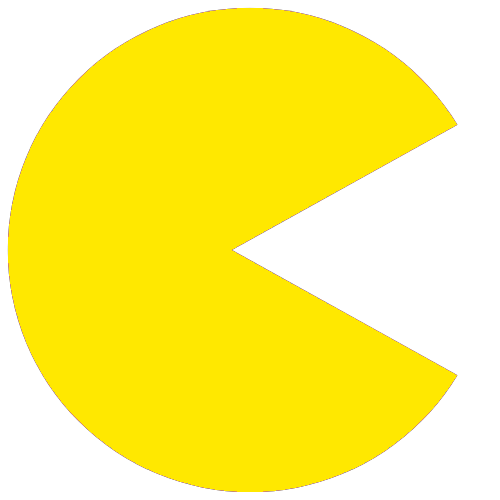
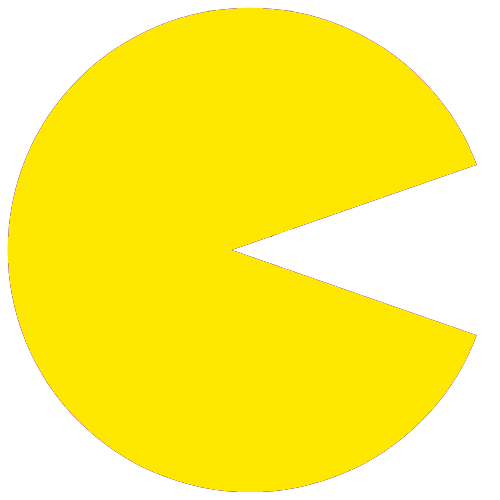
Connected Packman from Directory
Added PackMan For Multiple OS

Changed region(s): [[0.45, 0.48, 0.96, 0.75], [0.51, 0.24, 0.96, 0.48]]

diff --git a/PackMan.py b/PackMan.py
@@ -1,6 +1,6 @@
 import pygame             # importing pygame
 from board import lvl_1   # importing made board lvl_1 from board
-
+import os
 pygame.init()             # initialise all pygame modules
 
 #Game Window
@@ -16,6 +16,17 @@ level = lvl_1
 color_1 = '#0094ff' # color of walls on a map
 color_2 = 'white'   # color of small dots
 color_3 = '#fff5cc' # color of big dots
+
+
+player_images = []
+if os.path.exists("assets/player") == True:
+    for i in range(1, 4):  # adding a ll packman animation frames
+        player_images.append(pygame.transform.scale(pygame.image.load(f'assets/player/{i}.png'), (45, 45)))
+else:
+    for i in range(1, 4):  # adding a ll packman animation frames
+        player_images.append(pygame.transform.scale(pygame.image.load(f'assets\player\{i}.png'), (45, 45)))
+
+
 
 def draw_board():   # function to draw map
     height_tile = ((height - 50) // 32) # height specialy for tile ( /32 because in original pacman there are 32 different vertical tiles)
@@ -56,6 +67,11 @@ def draw_board():   # function to draw map
             # drawing gates
             if level[i][j] == 9:   # if element in board equals 9 then as we already described in file for us we draw gates for ghosts
                 pygame.draw.line(screen, color_2, (j * width_tile, i * height_tile + (0.5 * height_tile)), (j * width_tile + width_tile, i * height_tile + (0.5 * height_tile)), 3)
+
+
+def draw_player():
+
+    pass
 
 run = True
 while run:
